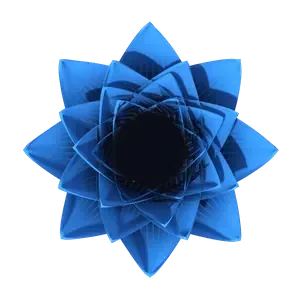
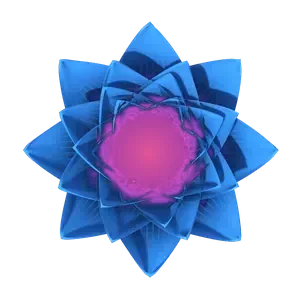
Lotus: miolo rosa puxando para roxo nas bordas até encontrar o azul
Claude-Session: https://claude.ai/code/session_01XJ8bKKm3arNhAerQKpBbQ5

diff --git a/tools/lotus3d/vivid.py b/tools/lotus3d/vivid.py
@@ -81,6 +81,34 @@ def clear_disk(im):
     return Image.fromarray(np.clip(a, 0, 255).astype(np.uint8), 'RGBA')
 
 
+def pink_heart(im):
+    """Pinta o miolo escuro da flor padrão: rosa no meio, puxando para roxo nas bordas até
+    encontrar o azul das pétalas. Mantém o relevo (as partes mais claras continuam mais claras)."""
+    im = im.convert('RGBA')
+    a = np.asarray(im).astype(np.float32)
+    W = im.width
+    k = W / 300
+    yy, xx = np.mgrid[0:im.height, 0:W]
+    d = np.hypot(xx - 148.3 * k, yy - 152.2 * k) / k
+    rgb = a[..., :3]
+    v = rgb.max(-1)
+    # só o que é escuro (preto/azul-marinho), dentro da região do miolo
+    dark = np.clip((110 - v) / 60, 0, 1)
+    reach = np.clip((88 - d) / 22, 0, 1)
+    w = dark * reach * (a[..., 3] > 0)
+    w = np.asarray(Image.fromarray((w * 255).astype(np.uint8)).filter(ImageFilter.GaussianBlur(0.8 * k))).astype(np.float32) / 255
+    # cor por distância do centro: rosa -> rosa-lilás -> roxo
+    pink = np.array([255, 96, 170], np.float32)
+    lilac = np.array([214, 82, 200], np.float32)
+    purple = np.array([110, 72, 225], np.float32)
+    t = np.clip(d / 72, 0, 1)[..., None]
+    col = np.where(t < 0.5, pink + (lilac - pink) * (t / 0.5), lilac + (purple - lilac) * ((t - 0.5) / 0.5))
+    shade = (0.62 + 0.38 * np.clip(v / 60, 0, 1) + 0.12 * (1 - t[..., 0]))[..., None]
+    out = rgb * (1 - w[..., None]) + np.clip(col * shade, 0, 255) * w[..., None]
+    a[..., :3] = out
+    return Image.fromarray(np.clip(a, 0, 255).astype(np.uint8), 'RGBA')
+
+
 def halo(path, size=600):
     # luz branca suave atrás da flor (um "sol" difuso)
     y, x = np.mgrid[0:size, 0:size] / (size - 1) * 2 - 1

diff --git a/tools/lotus3d/render.py b/tools/lotus3d/render.py
@@ -3,7 +3,7 @@
 import base64, io, json, os
 from PIL import Image
 from playwright.sync_api import sync_playwright
-from vivid import vivid_gold, clear_stamens, clear_disk, halo, rays
+from vivid import vivid_gold, clear_stamens, clear_disk, pink_heart, halo, rays
 HERE = os.path.dirname(os.path.abspath(__file__))
 OUT = os.path.join(HERE, '..', '..', 'assets', 'lotus')
 jobs = json.load(open(os.path.join(HERE, 'jobs.json')))
@@ -20,7 +20,7 @@ with sync_playwright() as p:
             im = clear_stamens(vivid_gold(im), bars=name.startswith('fab_'))
         # sem o círculo dourado no meio da flor padrão: no lugar dele o app desenha ondas sonoras
         if name.startswith('padrao_'):
-            im = clear_disk(im)
+            im = pink_heart(clear_disk(im))
         im.save(os.path.join(OUT, name), 'WEBP', quality=78, method=6)
         print(name)
     b.close()
